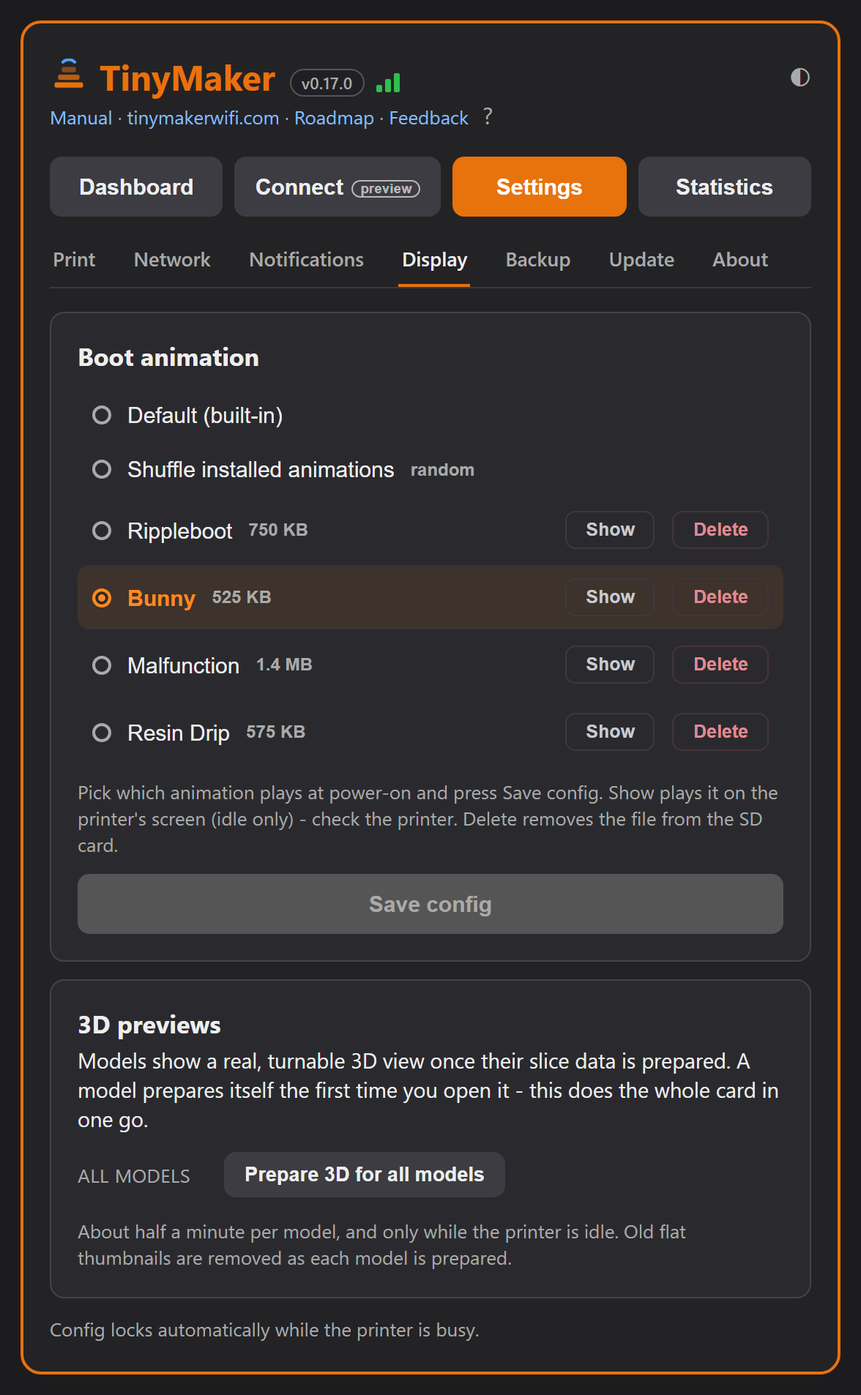
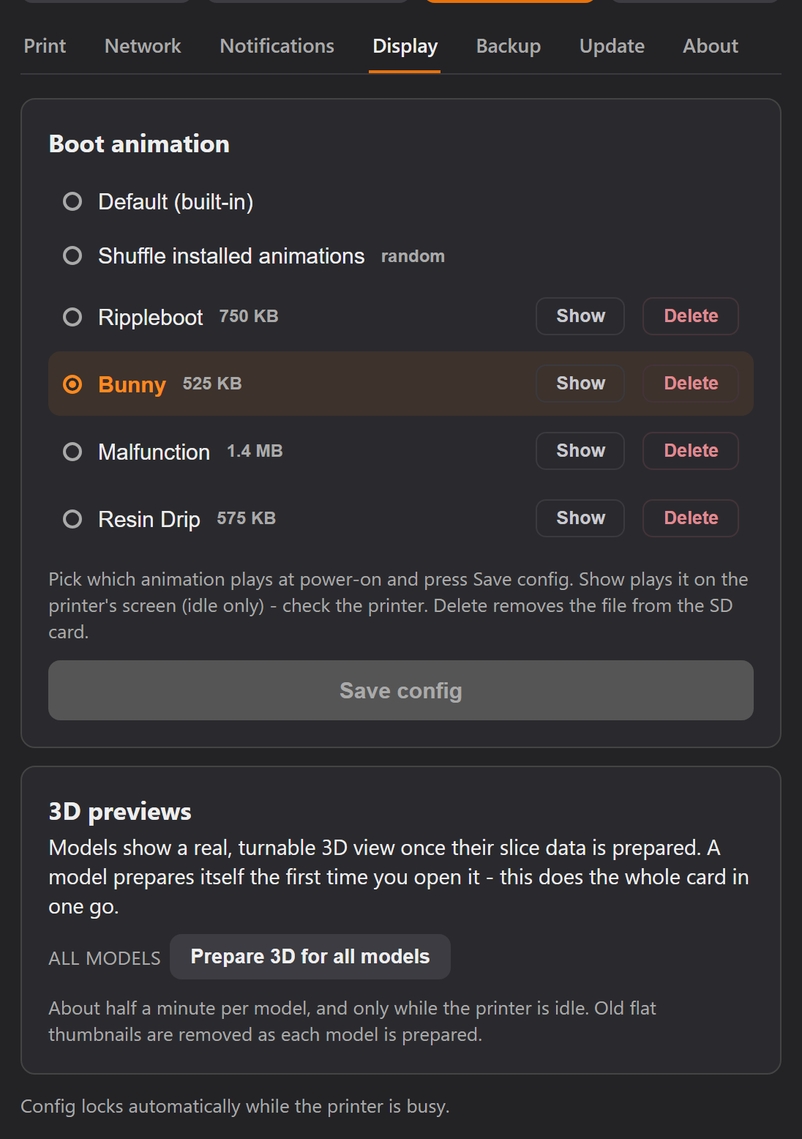
docs: one scale for every screenshot, and the wide shot where the text says wide
The pictures had drifted into three different scales. Captures made in a 1128px
window sat next to captures made in a 588px one, both shown at the same width -
so the same dashboard font appeared nearly twice as large in one picture as in
the next. Every screenshot is now shown at the same fraction of the window it
was taken in: 69% in the manual, 73% in the README. Nothing is enlarged past
its own pixels.

The mix of wide and narrow captures is now a rule rather than an accident: a
wide, two-column shot only where the text is about the two-column layout, and
the single-column view everywhere else. The manual had the wide picture sitting
several paragraphs above the sentence that promised it, with the sentence left
pointing at nothing; the README had the sentence "spreads into two columns"
under a single-column picture. Both now show what they say, and the alt text
says which is which.

Also caught in the same pass: the boot-animation screenshot still showed a
0.15.0 dashboard with a tab named "Boot animation" - that tab is now Display
and holds the 3D-preview tools as well, so it was reshot; the built-in slicer
was reshot in the narrow layout, sliced, so it matches its neighbours and shows
the result the text describes; the README's browser-slicer picture had ended up
under "Deleting uploaded models", which has nothing to do with it, and the
README had no slicer section at all - now it has one; and the dashboard's
[…]

diff --git a/docs/manual/index.html b/docs/manual/index.html
@@ -310,7 +310,7 @@ window.addEventListener('DOMContentLoaded',window.tmSyncSite);
 <section>
   <h2 class="sec" id="screens"><span class="num">5</span>The printer screens</h2>
   <p>The small status display drives the whole on-printer interface — WiFi setup, upload progress, the resin estimate, the device toggles and self-update. Three buttons: <kbd>Back</kbd>, <kbd>Up</kbd> and <kbd>OK</kbd>. A green (connected) or grey (offline) dot on the main menu shows WiFi status.</p>
-  <img class="shot" src="images/printer-screens.png" alt="A montage of the TinyMakerWifi printer screens: boot, WiFi setup, printing, the Advanced groups, unpacking an upload and the Statistics counters">
+  <img class="shot" style="max-width:780px" src="images/printer-screens.png" alt="A montage of the TinyMakerWifi printer screens: boot, WiFi setup, printing, the Advanced groups, unpacking an upload and the Statistics counters">
   <p>The <b>System</b> menu is where the new features live: <b>WiFi Info</b>, <b>Advanced</b> (device toggles, grouped into Network / Resin / Display), <b>Statistics</b> (lifetime counters and the last boot/crash record), <b>Update</b> (firmware) and <b>About</b> (version and build info). The full item-by-item reference is in <a href="#advanced">System menu reference</a>.</p>
 </section>
 
@@ -325,8 +325,8 @@ window.addEventListener('DOMContentLoaded',window.tmSyncSite);
     <li>Slice, then press <b>Send to printer</b>. The printer shows <i>Receiving → Unpacking → Model ready</i>, and the model appears in the <b>Print</b> menu.</li>
   </ol>
   <div class="row">
-    <img class="shot" src="images/prusaslicer-physical-printer.png" alt="PrusaSlicer: adding a physical printer pointing at tinymaker.local">
-    <img class="shot" src="images/prusaslicer-send-to-printer.png" alt="PrusaSlicer: the Send to printer button">
+    <img class="shot" style="max-width:520px" src="images/prusaslicer-physical-printer.png" alt="PrusaSlicer: adding a physical printer pointing at tinymaker.local">
+    <img class="shot" style="max-width:520px" src="images/prusaslicer-send-to-printer.png" alt="PrusaSlicer: the Send to printer button">
   </div>
   <div class="warn">⚠ <b>Always slice with the 0.05&nbsp;mm profile.</b> Maximum model size: 1200 layers = 60&nbsp;mm.<br>
   Unlike an FDM slicer, the layer height here is set <b>on the printer</b> (Settings → Layer height), not in the file — the file is just a stack of 0.05&nbsp;mm images, and at the 0.10&nbsp;mm setting the firmware exposes every other one. Slice at anything else and the part comes out the wrong height: at 0.3&nbsp;mm it would be six times too short.</div>
@@ -344,7 +344,7 @@ window.addEventListener('DOMContentLoaded',window.tmSyncSite);
     <li>Check the result in the preview: 3D with or without supports, the flat 2D layers, or the <b>UV view</b> — each layer exactly as the masking LCD will shine it.</li>
     <li>Press <b>Send to printer</b> — the sliced model lands on the SD card ready to print, exactly like a PrusaSlicer upload.</li>
   </ol>
-  <img class="shot" src="images/browser-slicer.png" alt="A model sliced in the browser: the preview shows the part in orange standing on its raft with 180 support pillars in blue, and the slicer card reports the time, the layers, the resin and the supports it added">
+  <img class="shot" style="max-width:378px" src="images/browser-slicer.png" alt="A model sliced in the browser: the preview shows the part in orange standing on its raft with 180 support pillars in blue, and the slicer card reports the time, the layers, the resin and the supports it added">
   <div class="note">⚖ The slicing itself is done by <b>PrusaSlicer’s libslic3r</b>, the same engine the
   desktop PrusaSlicer uses, compiled to run in your browser. It is used unmodified, under the AGPL-3.0 —
   see <a href="#credits">Credits</a>.</div>
@@ -401,7 +401,7 @@ window.addEventListener('DOMContentLoaded',window.tmSyncSite);
   <p>With no profile selected the row reads <b>&ldquo;Not set - printing is blocked&rdquo;</b> and
   the printer refuses to start. That is deliberate: printing with nobody&rsquo;s recipe used to run
   on whatever numbers happened to be left in memory.</p>
-  <img class="shot" src="images/resin-profiles.png" alt="The resin picker: the two built-in profiles, installed ones, a profile marked tested by with a Buy link, the selected resin ticked, and a line offering ready-made profiles to install">
+  <img class="shot" style="max-width:309px" src="images/resin-profiles.png" alt="The resin picker: the two built-in profiles, installed ones, a profile marked tested by with a Buy link, the selected resin ticked, and a line offering ready-made profiles to install">
 
   <h3>Installing a profile from the library</h3>
   <p>The picker also lists profiles you do <i>not</i> have yet, published by this project. Press
@@ -425,7 +425,7 @@ window.addEventListener('DOMContentLoaded',window.tmSyncSite);
   <div class="warn">&#9888;&#65039; A profile is a <b>starting point</b>. This printer&rsquo;s colour
   screen absorbs UV, so manufacturer tables read far too short here - run the exposure test with
   your own resin and save the result.</div>
-  <img class="shot" src="images/resin-recipe.png" alt="Settings, Print tab: the selected profile with its whole recipe - layer height, exposures, layers and the four lift settings - then Save, Save as and Rename, the resin calibration by weight, and the printer-side values below">
+  <img class="shot" style="max-width:406px" src="images/resin-recipe.png" alt="Settings, Print tab: the selected profile with its whole recipe - layer height, exposures, layers and the four lift settings - then Save, Save as and Rename, the resin calibration by weight, and the printer-side values below">
 
   <h3>Grams instead of guesswork</h3>
   <p>Under <b>Settings &rarr; Print &rarr; Resin calibration</b> the printer learns to turn weight
@@ -462,13 +462,13 @@ window.addEventListener('DOMContentLoaded',window.tmSyncSite);
   <p>Open the printer’s IP address in any browser for the full dashboard: live print status and controls, SD-card management with one-click start/import, device settings and firmware updates — in tabs styled to match the printer. The <b>◐ crescent</b> next to the <i>Manual</i> link switches between the <b>light and dark theme</b> (your choice sticks per browser), and small <b>?</b> marks next to the tricky settings open short explanations.</p>
   <div class="note">🧪 No printer at hand? <a href="https://tinymakerwifi.com/demo/">Try the dashboard live</a> — the same UI driving a simulated printer: start a print, watch the 3D progress, poke through Settings.</div>
   <div class="note">💬 The <b>Feedback</b> link in the header opens a 30-second form — what works, what doesn't, what's missing. Photos are welcome (a failed print says more than a paragraph) and your firmware version comes along automatically. No account, and it genuinely steers what gets built next.</div>
-  <img class="shot" src="images/web-dashboard.png" alt="The TinyMakerWifi web dashboard on a wide screen: status and model preview on the left, STL slicer and SD manager on the right">
-  <img class="shot" src="images/dashboard-idle.png" alt="The dashboard on a desktop screen: status card with UV LED time and the Manual link, SD manager with models">
+  <img class="shot" style="max-width:406px" src="images/dashboard-idle.png" alt="The dashboard in a narrow window: one column, with the status card, the print preview and the SD manager stacked">
   <h3>While a print runs</h3>
   <p>The state line counts the current step down — <b>Curing · 9s</b>, <b>Lifting · 4s</b> — and after <b>Stop</b> or a finished print it counts the ride to the top the same way, so that wait finally has a number. Next to it a small dot says whether the printer answered just now (green) or is mid-move (amber, <i>syncing</i>).</p>
-  <img class="shot" src="images/printing-eta.png" alt="The dashboard while printing: status with remaining time and finish-time estimate, print controls and the live 3D progress render">
+  <img class="shot" style="max-width:406px" src="images/printing-eta.png" alt="The dashboard while printing: status with remaining time and finish-time estimate, print controls and the live 3D progress render">
   <p>That dot is worth understanding, because it explains something that looks like a fault. One ESP32 runs the screen, the motor, the UV LED and this web server, all off a single SD card — so the page is served in the gaps between layer moves. During the peel the printer deliberately answers nothing: a pause there could mark the part. <b>A few seconds of amber is the printer working, not the page hanging.</b> The SD card is locked for the same reason — uploads and file actions come back when the print ends, and the model list stays readable throughout.</p>
   <p>On a larger screen it spreads into two columns:</p>
+  <img class="shot" style="max-width:780px" src="images/web-dashboard.png" alt="The TinyMakerWifi web dashboard on a wide screen: status and model preview on the left, STL slicer and SD manager on the right">
   <p>New to the printer? A dismissible <b>Getting Started</b> checklist on the dashboard walks you through the first steps (WiFi → slicer → first model → first print → exposure calibration → integrations) — the printer ticks steps off by itself where it can.</p>
   <p><b>Put it on your phone's home screen:</b> open the dashboard in the phone browser and pick <i>Add to Home screen</i> (Chrome: the ⋮ menu; iPhone Safari: Share → <i>Add to Home Screen</i>). You get the printer's icon on the home screen, and on iPhone it opens fullscreen like an app. (A browser "install" banner won't appear — the printer serves plain HTTP on your LAN — but the shortcut works the same.)</p>
 
@@ -492,7 +492,7 @@ window.addEventListener('DOMContentLoaded',window.tmSyncSite);
 
   <h3>The SD manager &amp; the Model preview card</h3>
   <p>Uploads are safe: a model unpacks into a temporary folder and replaces the old one only after unpacking succeeds, and uploading a name that already exists asks <b>Replace / Rename / Cancel</b> (a PrusaSlicer re-upload simply replaces, as you’d expect while iterating).</p>
-  <img class="shot" src="images/sd-and-preview.png" alt="The model preview card with a rendered model and its view controls, and below it the SD manager: a selected model with Start and Delete, the other models, the page arrows and the card-space bar">
+  <img class="shot" style="max-width:378px" src="images/sd-and-preview.png" alt="The model preview card with a rendered model and its view controls, and below it the SD manager: a selected model with Start and Delete, the other models, the page arrows and the card-space bar">
   <p>The card leads with the model list — the part you use every day. <b>Upload…</b> sits in its corner: one click opens the file picker and the file starts uploading the moment you choose it. Storage sits at the bottom as a thin bar, out of the way until it matters (it turns amber past 85%). Uploading a model that doesn't fit is refused before anything is sent, so the bar is information, not a thing to watch.</p>
   <p>Every model row <b>is</b> the preview button: click it and the browser rebuilds the shape from the sliced layers and renders it into the <b>Model preview</b> card, with a live percentage while it loads, then a compact info line — layers · height · print time · resin — and a <b>Share model</b> button (when TinyMaker Connect is registered). The selected row is highlighted, so a card full of models never leaves you guessing which one is on screen. <b>Start</b> and <b>Delete</b> appear on the row itself — under the mouse on a computer, on a tap on the phone — and Start goes straight to the <i>Start this print?</i> question without waiting for the preview.</p>
   <p>The card itself is always on the dashboard, like the SD manager: before anything is previewed it shows a hint, and the last previewed model is remembered — a page reload brings it straight back from the saved preview (no re-render, nothing to redo).</p>
@@ -611,7 +611,7 @@ window.addEventListener('DOMContentLoaded',window.tmSyncSite);
     <li><b>Set it:</b> pick the <b>lowest time that still cures sharp and sturdy</b> (best detail; if torn between two, take the longer one) and enter it as <b>Regular exposure</b> in Settings. Identify bars by their dots (1 dot = shortest) and read the time from the table above. Keep <b>Base exposure</b> at roughly 2.5× the new Regular — it’s about first-layer adhesion, not detail.</li>
   </ol>
   <figure style="margin:16px 0 6px">
-    <img class="shot" src="images/exposure-test-strip.jpg" alt="A real exposure test strip cured in the vat: eight bars with dot markers, holes crisp on the long-exposure side and sealing over toward the short side">
+    <img class="shot" style="max-width:520px" src="images/exposure-test-strip.jpg" alt="A real exposure test strip cured in the vat: eight bars with dot markers, holes crisp on the long-exposure side and sealing over toward the short side">
     <figcaption>A real test strip in the vat — count the dots: bar N carries N holes, so flipping or mirroring never confuses it. On the long-exposure side the holes cured round and open; toward the short side the bars turn translucent and the holes seal over. Pick the lowest bar whose holes are still open and edges sharp.</figcaption>
   </figure>
   <div class="note">💡 Cold resin cures slower — run the test at the temperature you actually print at. Check the vat for leftovers afterwards; a <i>Clean Resin Vat</i> cycle picks up anything you missed.</div>
@@ -632,11 +632,11 @@ window.addEventListener('DOMContentLoaded',window.tmSyncSite);
     <li><b>On the printer:</b> System → Advanced → Display → <b>Boot animation</b> — <kbd>OK</kbd> cycles <i>Default</i> (the built-in logo), <i>Shuffle</i> and every installed animation.</li>
     <li><b>In the dashboard:</b> Settings → the <b>Display</b> tab (it holds the boot animations and the 3D-preview options). Picking a row only <b>stages</b> the choice — press <b>Save config</b> to apply it. <b>Show</b> plays any installed animation on the printer’s screen right away (only while the printer is idle), and <b>Delete</b> removes its file from the SD card.</li>
   </ul>
-  <img class="shot" src="images/boot-animations.png" alt="Settings, Display tab: boot animations with Show and Delete, the staged selection, and Prepare 3D for all models">
+  <img class="shot" style="max-width:406px" src="images/boot-animations.png" alt="Settings, Display tab: boot animations with Show and Delete, the staged selection, and Prepare 3D for all models">
   <p><b>Shuffle</b> (offered once two or more animations are installed) plays a random installed animation on every boot.</p>
   <p>Getting new animations onto the printer:</p>
   <ul>
-    <li><b>Default library:</b> below the installed list, the Boot animation tab shows a small library hosted on the project’s GitHub Pages — press <b>Install</b> and the printer pulls the file onto the SD card. Installing does <b>not</b> select it — pick it and Save config when you’re ready.</li>
+    <li><b>Default library:</b> below the installed list, the <b>Display</b> tab shows a small library hosted on the project’s GitHub Pages — press <b>Install</b> and the printer pulls the file onto the SD card. Installing does <b>not</b> select it — pick it and Save config when you’re ready.</li>
     <li><b>From the community site:</b> browse the animation library in the Connect tab and install from there (WiFi and Web control must be on).</li>
     <li><b>By hand:</b> copy a <code>.tmb</code> animation file into the <code>/bootanim</code> folder on the SD card.</li>
   </ul>
@@ -691,7 +691,7 @@ window.addEventListener('DOMContentLoaded',window.tmSyncSite);
     <li><b>From the dashboard — Settings → Update:</b> installed vs latest with an <b>Install latest</b> button, a <b>version picker</b> (install any released version; downgrades ask to confirm) and a <b>file upload</b> for a <code>firmware.bin</code>.</li>
     <li><b>For developers:</b> PlatformIO OTA via the <code>tinymaker-ota</code> environment (open System → Update on the printer first — that path keeps the strict gate).</li>
   </ul>
-  <img class="shot" src="images/firmware-update-page.png" alt="The dashboard Settings > Update pane: installed vs the stable channel, version picker, file upload and the Slicer module card">
+  <img class="shot" style="max-width:406px" src="images/firmware-update-page.png" alt="The dashboard Settings > Update pane: installed vs the stable channel, version picker, file upload and the Slicer module card">
   <p>Two comforts while updating: the printer also <b>checks by itself</b> — shortly after WiFi connects at boot it looks for a newer version and shows <i>“Update available — Install / Later”</i> on the screen (choosing Later offers to turn the check off; the switch lives in System → Advanced → Network → Boot update and in dashboard Settings). And when you start an install from the browser, the dashboard locks under an <b>“Updating firmware”</b> overlay and <b>reloads itself</b> when the printer is back — no guessing whether it finished.</p>
   <div class="note">✅ <b>Don’t worry about a failed update.</b> The printer keeps two firmware copies (dual OTA partition), so a failed flash falls back to the previous one. Just don’t power off mid-update.</div>
   <p>The same Settings → Update pane also holds the <b>Slicer module</b> card (shown when the <a href="#dashboard">browser slicer</a> is switched on): the version on the printer vs the latest published, an <b>Install latest</b> button and a version picker. It updates independently of the firmware — a slicer update never reflashes the printer.</p>
@@ -711,7 +711,7 @@ window.addEventListener('DOMContentLoaded',window.tmSyncSite);
   </ul>
   <p><b>Auto backup to TinyMaker Connect</b> (optional, for registered Connect users): a checkbox under Settings → <b>Network</b> → <i>TinyMaker Connect</i> keeps a backup on the Connect server after settings changes and after prints; the Backup tab then offers <b>Download from Connect</b> and <b>Restore from Connect</b>. Connect backups do <b>not</b> include the stored MQTT, notification or Connect secrets. When you register, save the <b>recovery code</b> (Retrieve / Copy buttons in the Connect section) — it restores your Connect profile if you ever reset the printer without a backup.</p>
   <div class="note">💡 WiFi credentials are managed separately (by the WiFi setup portal) and are <b>not</b> in the backup — after a full USB reflash you reconnect to WiFi once, everything else restores. The backup includes your MQTT password, so treat the file accordingly.</div>
-  <img class="shot" src="images/settings-backup.png" alt="The Settings tab with the Backup &amp; restore buttons: Download backup, Backup to SD, Restore from file">
+  <img class="shot" style="max-width:406px" src="images/settings-backup.png" alt="The Settings tab with the Backup &amp; restore buttons: Download backup, Backup to SD, Restore from file">
 </section>
 
 <section>

diff --git a/README.md b/README.md
@@ -44,7 +44,7 @@ Modified and extended firmware for the open-source **TinyMaker** MSLA resin 3D p
 * **MQTT / Home Assistant** — optional integration with auto-discovery: print state, layers, resin used, **resin left + low-resin alert**, run/remaining time as HA sensors
 * **Telegram, WhatsApp or Discord notifications** — the printer messages you when a print **finishes** (with time and resin used), **pauses for low resin**, or is **canceled**. Pick one channel: a Telegram bot, WhatsApp through the free CallMeBot gateway, or a Discord channel webhook — each with inline **?** setup help and a *Send test* button. *(Telegram is tested daily; WhatsApp and Discord ship untested — they ride on your own CallMeBot key or channel webhook, so the only test that proves anything is yours. Reports welcome, working or not.)*
 * **Anonymous usage ping** (optional) — once per firmware version the printer sends a one-way hash of its MAC address, the firmware version and the lifetime print hours, so we know how many printers are out there. Nothing else is sent, ever — switch it off under Settings → Network → *Anonymous usage ping*
-* **Firmware updates over WiFi** — self-update from the printer (System → Update) or from the dashboard's **Update tab** (install latest, pick **any version** from a list, or upload a file). PlatformIO OTA for developers. Flashing is blocked while printing.
+* **Firmware updates over WiFi** — self-update from the printer (System → Update) or from the dashboard's **Settings → Update** pane (install latest, pick **any version** from a list, or upload a file). PlatformIO OTA for developers. Flashing is blocked while printing.
 * Everything is switchable: WiFi and Web control can be turned off right on the printer (System → Advanced), and build switches still let developers compile the original, network-free firmware from the same code base
 
 ## Screens
@@ -86,7 +86,7 @@ Still stuck after all five? Open an [issue](https://github.com/slibbinas/TinyMak
 
 ### Method 2: Already running TinyMakerWifi? Update over WiFi
 
-No USB needed — use `System → Update` on the printer or the dashboard's **Update tab**. See [Wireless Firmware Updates](#wireless-firmware-updates).
+No USB needed — use `System → Update` on the printer or the dashboard's **Settings → Update** pane. See [Wireless Firmware Updates](#wireless-firmware-updates).
 
 ### Method 3: Manual flashing (fallback & developers)
 
@@ -152,10 +152,25 @@ Two ways to erase the stored credentials (e.g. when moving the printer to anothe
 <p>
   <img src="Images/mockups/prusaslicer-physical-printer.png" width="440" alt="PrusaSlicer: add a physical printer pointing at tinymaker.local with API key auth">
   &nbsp;
-  <img src="Images/mockups/prusaslicer-send-to-printer.png" width="300" alt="PrusaSlicer: select the TinyMaker WiFi printer and press Send to printer">
+  <img src="Images/mockups/prusaslicer-send-to-printer.png" width="440" alt="PrusaSlicer: select the TinyMaker WiFi printer and press Send to printer">
 </p>
 
 **Always slice with the 0.05 mm profile.** Unlike FDM, the printed layer height is set **on the printer** (Settings → Layer Height), not by the sliced file — the file is just a stack of 0.05 mm images, and at the 0.10 mm printer setting the firmware takes every other image. Maximum model size: 1200 layers = 60 mm. If prints come out **flat or the wrong height**, check that PrusaSlicer's *Print settings* still show **0.05 mm** — an update or the wrong preset can silently reset it, and the printer can't detect it from the file.
+
+## Slice in the browser
+
+No slicer installed, and nothing to install: the dashboard slices STL files itself. Open the
+**STL slicer** card, choose an STL, pick **regular** or **tree** supports, and press
+**Send to printer** - the model arrives on the SD card ready to print. The result is shown
+before it goes anywhere: the part on its raft in 3D, layer by layer in 2D, with the numbers
+that matter underneath - size, triangles, layer count, supports and the resin estimate.
+
+The slicer is a **module the printer keeps on its own SD card**: fetched once from our GitHub
+Pages, verified byte-for-byte against checksums, and used from the card afterwards - so it
+works with no internet and survives firmware updates. Everything is sliced at 0.05 mm, the
+same as every other model here.
+
+<img src="Images/mockups/browser-slicer.png" width="400" alt="A model sliced in the browser: the preview shows the part in orange standing on its raft with 180 support pillars in blue, and the slicer card reports the time, the layers, the resin and the supports it added">
 
 ## Importing models from the SD card
 
@@ -165,19 +180,19 @@ No network? Copy an `.sl1` or `.zip` (exported by PrusaSlicer/UVtools) into the 
 
 In the **Print** menu, **press and hold OK for ~1.5 seconds** on a model — a *Delete model?* confirmation appears (release the button first, then **OK = Delete**, **Back = No**). Deletion removes the whole model folder from the SD card and shows a progress bar (large models take a while — hundreds of layer files). A short OK press starts printing as usual.
 
-<img src="Images/mockups/browser-slicer.png" width="820" alt="A model sliced in the browser: the preview shows the part in orange standing on its raft with 180 support pillars in blue, and the slicer card reports the time, the layers, the resin and the supports it added">
-
 ## Web dashboard
 
 Open the printer's IP address in any browser for the full dashboard *(initial version contributed by [@Briadark](https://github.com/Briadark))*: live print status and controls, SD card management with one-click start/import, device settings, backups and firmware updates — all in tabs styled to match the printer's UI.
 
+In a narrow window - a phone, or half a screen - everything is one column:
+
+<img src="Images/screenshots/dashboard-idle.png" width="430" alt="The dashboard in a narrow window: one column, with the status card, the model preview and the SD manager stacked">
+
+On a desktop-sized screen it spreads into two columns:
+
+<img src="Images/mockups/web-dashboard.png" width="820" alt="The dashboard on a wide screen: two columns, with status and model preview on the left, the STL slicer and SD manager on the right">
+
 While a print runs, the status card counts the current phase down next to its name — *Curing · 9s* — and a small dot says whether the printer answered just now or is mid-move. That matters on this hardware: one ESP32 drives the screen, the motor, the UV LED and the web server off a single SD card, so the dashboard is served in the gaps between layer moves. A pause of a few seconds with an amber *syncing* mark is the printer working, not the page hanging.
-
-<img src="Images/mockups/web-dashboard.png" width="420" alt="TinyMakerWiFi web dashboard on a wide screen: status and model preview on the left, STL slicer and SD manager on the right">
-
-On a desktop-sized screen the dashboard spreads into two columns — here it is in real use, idle with a card full of models:
-
-<img src="Images/screenshots/dashboard-idle.png" width="640" alt="Real dashboard screenshot on a desktop screen: status card with UV LED time and Manual link, SD manager with model list">
 
 ### 3D preview & live print progress
 
@@ -187,7 +202,7 @@ There is no mesh to render — the model reaches the printer already sliced into
 
 A real print in progress — a plate of teeth with supports, rendered live in the build-volume box:
 
-<img src="Images/screenshots/printing-eta.png" width="640" alt="Real dashboard screenshot while printing: status with finish-time estimate, print controls and the live 3D print progress render">
+<img src="Images/screenshots/printing-eta.png" width="430" alt="Real dashboard screenshot while printing: status with finish-time estimate, print controls and the live 3D print progress render">
 
 ## Advanced menu (WiFi and Web control switches)
 
@@ -240,8 +255,8 @@ Both switches default to **On**, and stay On after upgrading from an older versi
 
 ## Resin profiles, level & refills
 
-<img src="Images/mockups/resin-profiles.png" width="420" alt="The resin picker: built-in and installed profiles, one marked tested by with a Buy link, and a line offering ready-made profiles to install">
-<img src="Images/mockups/resin-recipe.png" width="420" alt="Settings, Print tab: the selected profile with its whole recipe - layer height, exposures, layers and the four lift settings - then Save, Save as and Rename, and the resin calibration by weight">
+<img src="Images/mockups/resin-profiles.png" width="330" alt="The resin picker: built-in and installed profiles, one marked tested by with a Buy link, and a line offering ready-made profiles to install">
+<img src="Images/mockups/resin-recipe.png" width="430" alt="Settings, Print tab: the selected profile with its whole recipe - layer height, exposures, layers and the four lift settings - then Save, Save as and Rename, and the resin calibration by weight">
 
 The printer has no resin sensor — instead it **keeps count**: every printed layer's cured volume (the same white-pixel estimate used for the ml counter) is subtracted from the VAT level. The estimate survives reboots and firmware updates.
 
@@ -267,8 +282,7 @@ Three ways to update:
 
 Do not power off during an update — and don't worry too much either: the dual OTA partition keeps the previous firmware if the update fails.
 
-<img src="Images/mockups/firmware-update-page.png" width="420" alt="Dashboard Update tab: installed version vs the stable channel, version picker, firmware.bin upload and the Slicer module card">
-
+<img src="Images/mockups/firmware-update-page.png" width="430" alt="The dashboard Settings → Update pane: installed version vs the stable channel, version picker, firmware.bin upload and the Slicer module card">
 
 > The self-update needs the latest `firmware.bin` + a `version.txt` hosted on GitHub Pages. See [`Firmware_Hosting/`](Firmware_Hosting/) for the one-time setup and per-release steps.
 
